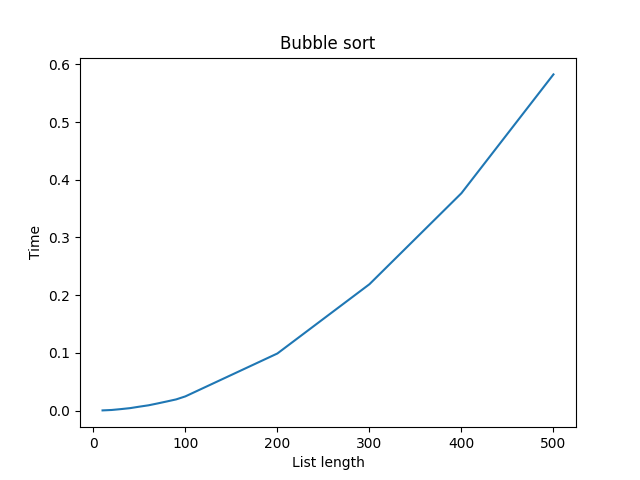
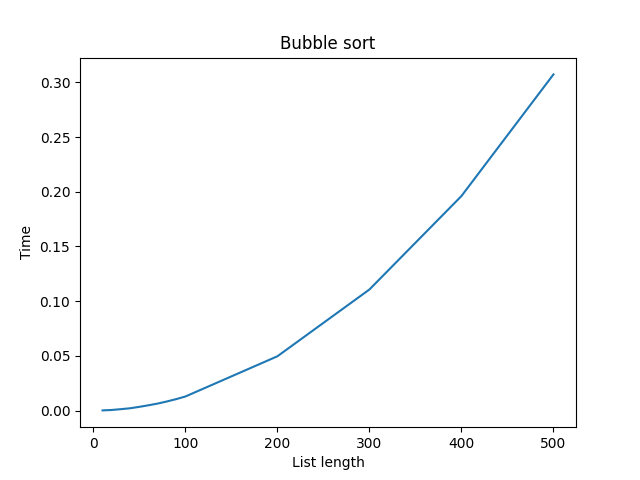
add and refine normalization plots, savefig, black codes

diff --git a/sort.py b/sort.py
@@ -4,21 +4,23 @@ import numpy.random as rand
 import timeit
 import matplotlib.pyplot as plt
 
+
 def bubble_sort(arr):
     n = len(arr)
     for i in range(n):
-        for j in range(0, n-i-1):
-            if arr[j] > arr[j+1]:
-                arr[j], arr[j+1] = arr[j+1], arr[j]
+        for j in range(0, n - i - 1):
+            if arr[j] > arr[j + 1]:
+                arr[j], arr[j + 1] = arr[j + 1], arr[j]
     return arr
+
 
 def merge_sort(arr):
     def merge(left, mid, right):
         left_part = arr[left:mid]
         right_part = arr[mid:right]
-        i = 0 #left half index
-        j = 0 #right half index
-        k = left #write index on arr
+        i = 0  # left half index
+        j = 0  # right half index
+        k = left  # write index on arr
         while i < len(left_part) and j < len(right_part):
             if left_part[i] <= right_part[j]:
                 arr[k] = left_part[i]
@@ -35,17 +37,20 @@ def merge_sort(arr):
             arr[k] = right_part[j]
             j = j + 1
             k = k + 1
+
     def sort(left, right):
         if right - left > 1:
             mid = (left + right) // 2
             sort(left, mid)
             sort(mid, right)
             merge(left, mid, right)
-    sort(0, len(arr)) #exlusive of end point
+
+    sort(0, len(arr))  # exlusive of end point
     return arr
 
-N_list_bubble = [10, 20, 30, 40, 50, 60, 70, 80, 90, 100, 200,300,400, 500, 750, 1000, 1500, 2000, 2500, 5000]
-N_list_merge = np.logspace(2, 5, 20, dtype=int)
+
+N_list_bubble = [10, 20, 30, 40, 50, 60, 70, 80, 90, 100, 200, 300, 400, 500]
+N_list_merge = np.linspace(10, 10000, 20, dtype=int)
 bubble_times = []
 merge_times = []
 
@@ -53,46 +58,59 @@ for N in N_list_bubble:
     total_time_bubble = 0
     print(N)
     for i in range(5):
-        a_list = rand.randint(int(-10), int(10), size = N)
-        b_list = rand.randint(int(-2), int(2), size = N)
+        a_list = rand.randint(int(-10), int(10), size=N)
+        b_list = rand.randint(int(-2), int(2), size=N)
         number_list = [HPNumber(a_list[i], b_list[i]) for i in range(N)]
-        total_time_bubble += timeit.timeit("bubble_sort(number_list)", globals = globals(), number = 1)
-    bubble_times.append(total_time_bubble/5)
-    
-    
+        total_time_bubble += timeit.timeit(
+            "bubble_sort(number_list)", globals=globals(), number=1
+        )
+    bubble_times.append(total_time_bubble / 5)
+
+
 for N in N_list_merge:
     total_time_merge = 0
     print(N)
     for i in range(5):
-        a_list = rand.randint(int(-10), int(10), size = N)
-        b_list = rand.randint(int(-2), int(2), size = N)
+        a_list = rand.randint(int(-10), int(10), size=N)
+        b_list = rand.randint(int(-2), int(2), size=N)
         number_list = [HPNumber(a_list[i], b_list[i]) for i in range(N)]
-        total_time_merge += timeit.timeit("merge_sort(number_list)", globals = globals(),number = 1)
-    merge_times.append(total_time_merge/5)
+        total_time_merge += timeit.timeit(
+            "merge_sort(number_list)", globals=globals(), number=1
+        )
+    merge_times.append(total_time_merge / 5)
 
+
+plt.figure()
 plt.title("Bubble sort")
 plt.plot(N_list_bubble, bubble_times)
 plt.xlabel("List length")
 plt.ylabel("Time")
+plt.savefig("Bubble-Full.png")
 plt.show()
 
-plt.clf()
+plt.figure()
 plt.title("Merge sort")
 plt.plot(N_list_merge, merge_times)
 plt.xlabel("List length")
 plt.ylabel("Time")
+plt.savefig("Merge-Full.png")
 plt.show()
 
-plt.clf()
+plt.figure()
 plt.title(r"Comparing Bubble sort to $N^2$")
-plt.plot(N_list_bubble, np.array(bubble_times)/np.array(N_list_bubble)**2)
+plt.plot(N_list_bubble, np.array(bubble_times) / np.array(N_list_bubble) ** 2)
 plt.xlabel(r"$N$")
 plt.ylabel(r"Time/$N^2$")
+plt.savefig("Bubble-Proportional.png")
 plt.show()
 
-plt.clf()
+plt.figure()
 plt.title(r"Comparing merge sort to $N\ln N$")
 plt.xlabel(r"$N$")
 plt.ylabel(r"Time/$N\ln N$")
-plt.plot(N_list_merge, np.array(merge_times)/(np.array(N_list_merge)*np.log(np.array(N_list_merge))))
+plt.plot(
+    N_list_merge,
+    np.array(merge_times) / (np.array(N_list_merge) * np.log(np.array(N_list_merge))),
+)
+plt.savefig("Merge-Proportional.png")
 plt.show()
